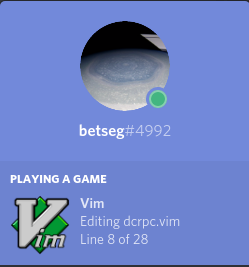
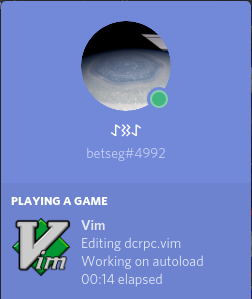
more like other editors plugins

diff --git a/vim-dcrpc.c b/vim-dcrpc.c
@@ -2,6 +2,7 @@
 #include <stdlib.h>
 #include <string.h>
 #include <unistd.h>
+#include <time.h>
 
 #include "include/discord_rpc.h"
 
@@ -14,6 +15,7 @@ void discordInit() {
 }
 
 void mainloop() {
+    time_t start = time(0);
     while(!sleep(5)) {
         char buffer[2][256];
 
@@ -35,7 +37,8 @@ void mainloop() {
         discordPresence.largeImageKey = "vim_logo";
         discordPresence.largeImageText = "Vim > emacs";
 
-        discordPresence.instance = 0;
+        discordPresence.startTimestamp = start;
+
         Discord_UpdatePresence(&discordPresence);
 #ifdef DISCORD_DISABLE_IO_THREAD
         Discord_UpdateConnection();
